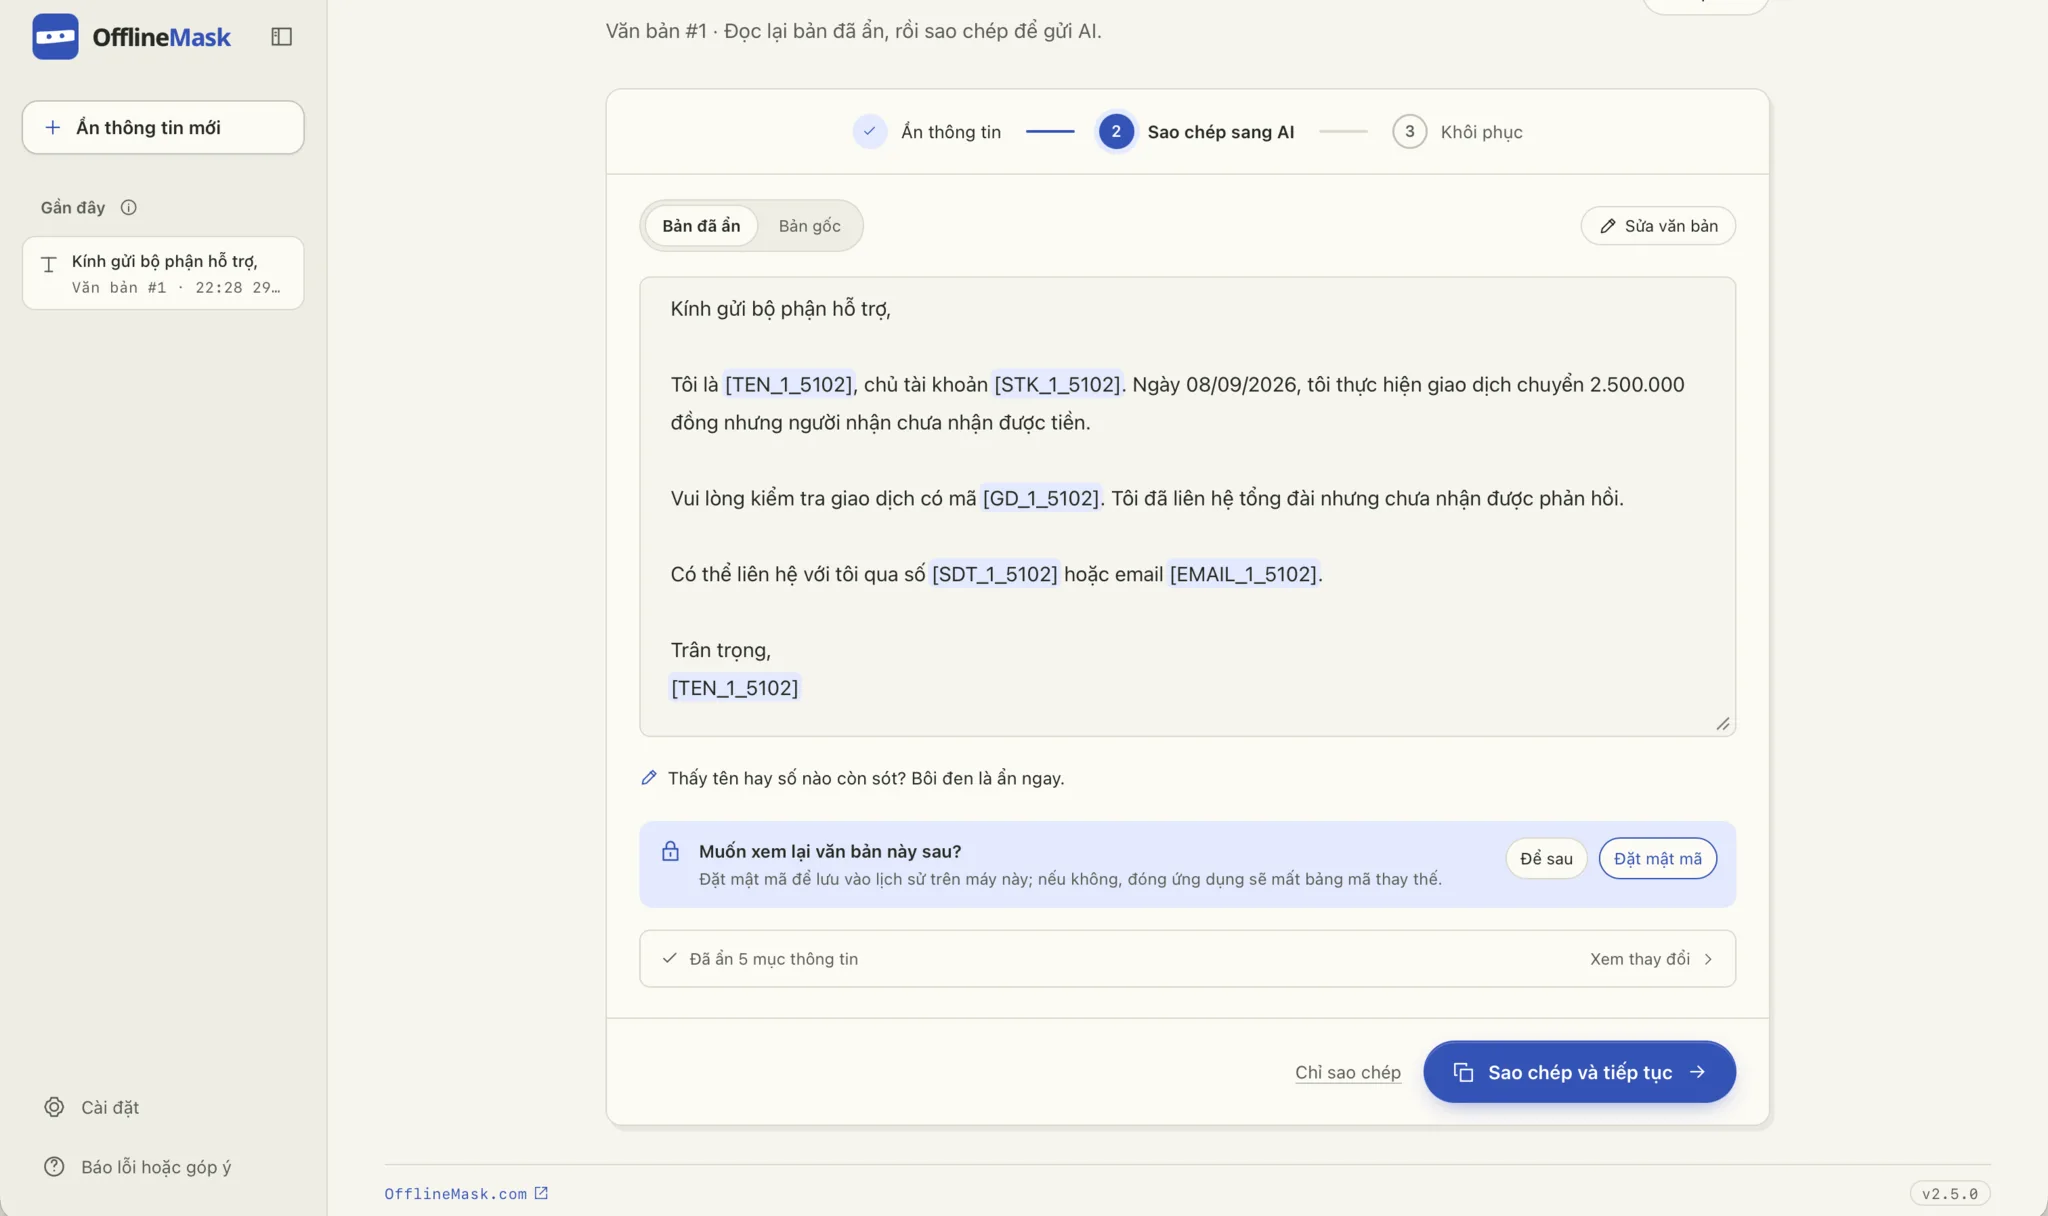
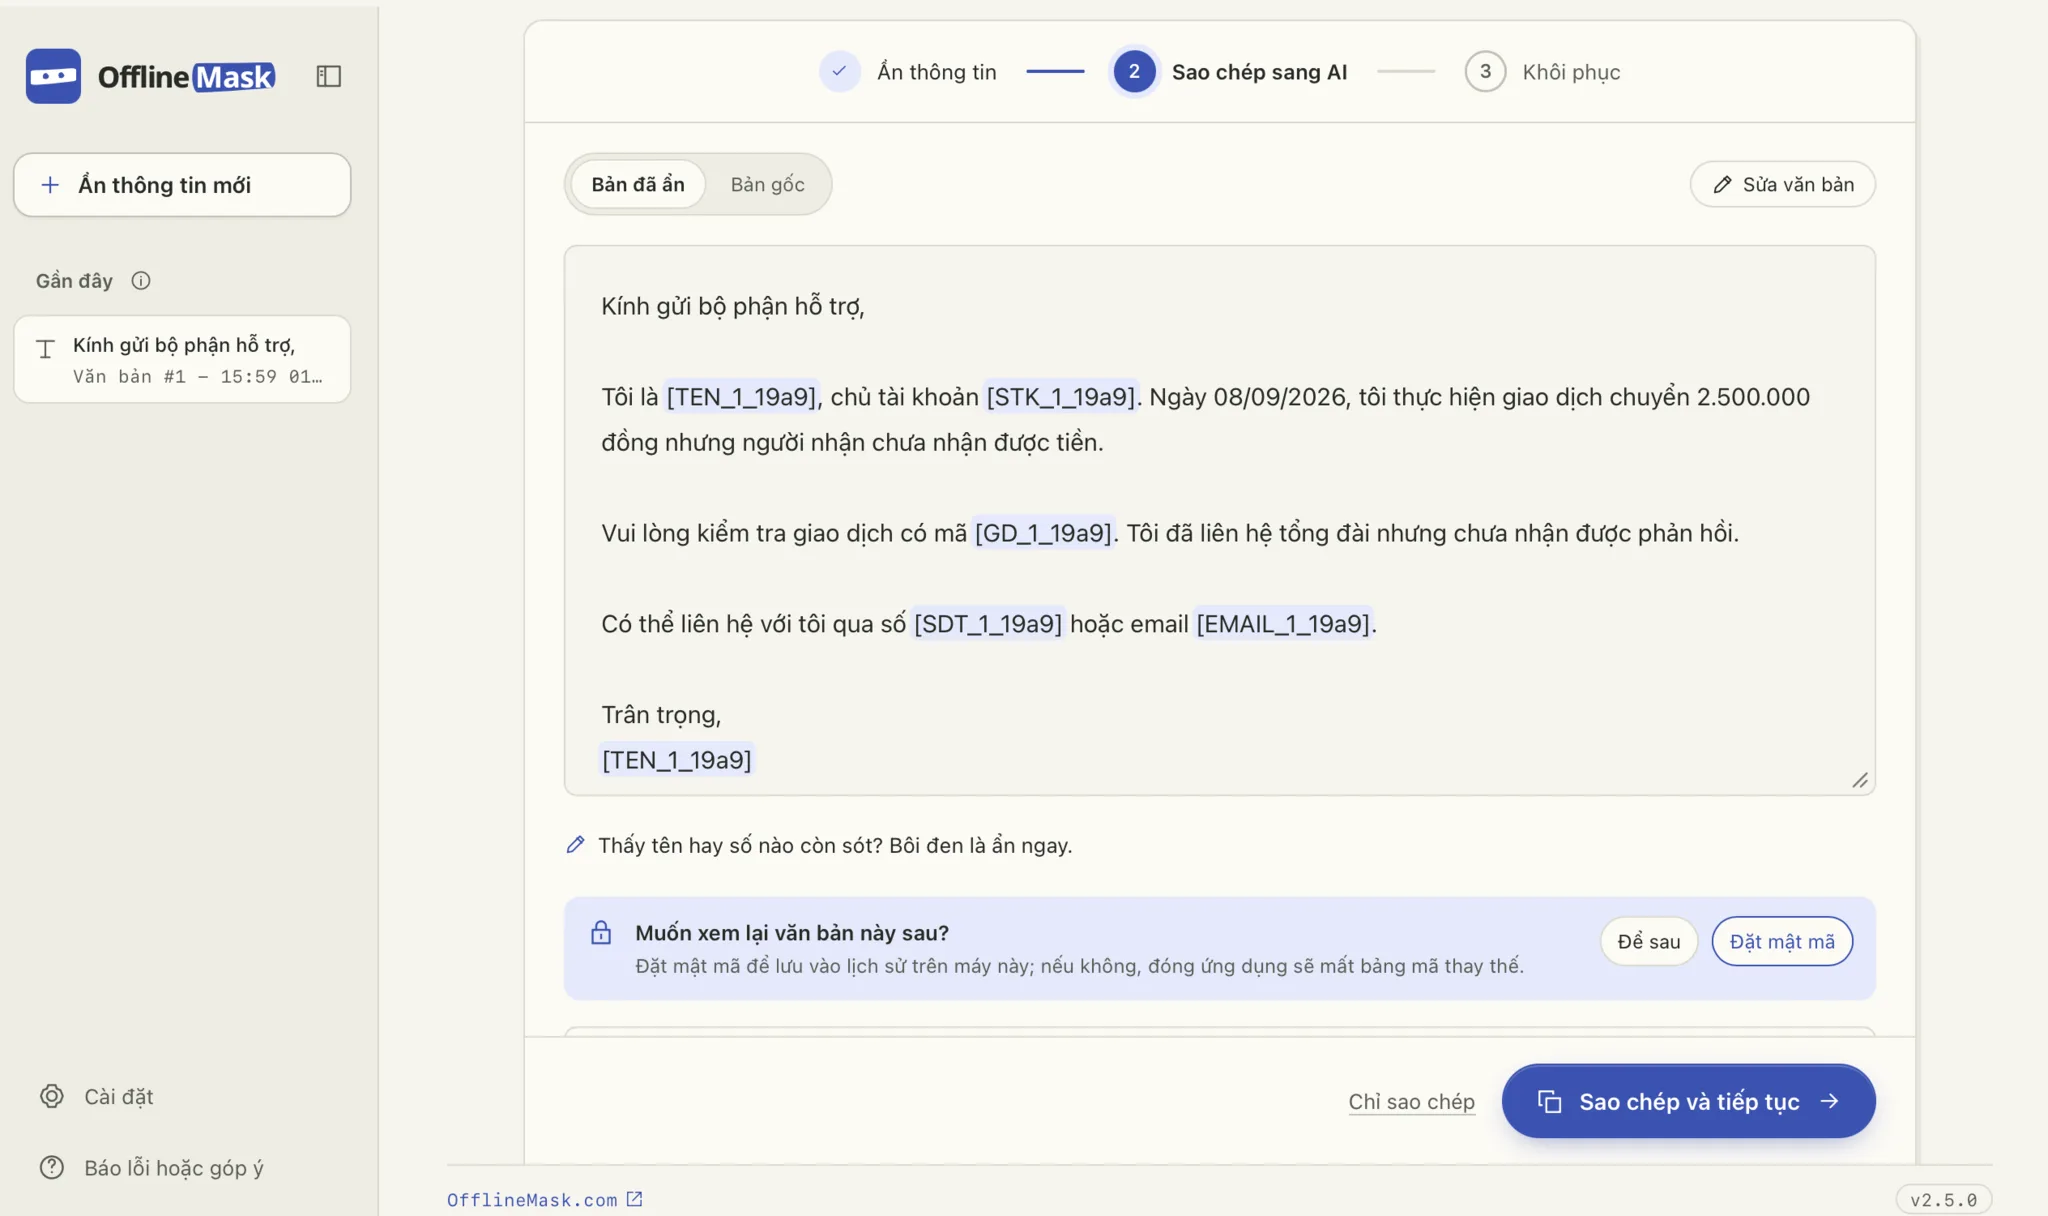
Website: the two app screenshots retaken from the desktop app with the Vietnamese pack so the sidebar shows the logotype, "Mask" under the cobalt brush swipe; the same fictional support letter and 1280×788 window, the name masked as [TEN_1_…], the step card at the top of the frame with the app's sti

diff --git a/docs/decisions/0193-logotype-swipe.md b/docs/decisions/0193-logotype-swipe.md
@@ -19,7 +19,7 @@ The owner liked A and C and chose **A**. The first draft of A was hard to read: 
 - **Drawn as a mask behind live text.** Everywhere the logotype appears, "Mask" is an inline block (0.1 em after "Offline", 0.12 em padding, line height 1, −0.02 em tracking) whose `::before` is the swipe: `mask: url(wordmark-swipe.svg) 0 0 / 100% 100%`, 1.1 em tall, filled with the accent. The word stays text, so it is selectable, read aloud as "OfflineMask" and follows the theme. The box is set in em for Noto Sans's metrics, which is why the face is bundled rather than taken from the system.
 - **Colours.** On paper: cobalt swipe, letters in `--on-accent`. On dark: the dark accent and dark `--on-accent`. On cobalt (the website hero, share images, blog cards): the light cobalt `#b3c3ff` swipe with cobalt letters, replacing "Mask in light cobalt".
 - **Where.** The app's `.brand-accent` (sidebar, folded top bar, Cài đặt, the about lockup); the website's `.om-brand` lockups (every page header) and the hero, where the swipe is brushed on after the letters rise (none with reduced motion); `landing/cards.js`, the blog share cards drawn by Satori, which places the swipe as an image; `landing/og/card.html` and `brand/social/cover.html`, with `og.png` and `cover.png` re-rendered (the cover's wordmark is now 112 px so it stays clear of the screenshot).
-- **Not changed.** The product name inside a sentence (`.om-name` on the website) stays plain lettering with "Mask" in cobalt: a swipe in running text would shout. The mark, app icon and favicon are unchanged. The screenshots on the website and in the share images still show the old sidebar until they are next retaken. The brand preview sheet's wordmark is live SVG text, which cannot be fitted to a swipe without measuring it, so it is left as is.
+- **Not changed.** The product name inside a sentence (`.om-name` on the website) stays plain lettering with "Mask" in cobalt: a swipe in running text would shout. The mark, app icon and favicon are unchanged. The screenshots on the website and in the share images were retaken the same day from the desktop app with the Vietnamese pack (the same fictional support letter, window 1280×788, the procedure at the top of `landing/scripts/capture-app-shots.mjs`), so `landing/shots/`, `og.png` and `cover.png` now show the swipe in the sidebar; the step card now sits at the top of the frame with the app's sticky footer, since the text panel has grown since the previous pair. The brand preview sheet's wordmark is live SVG text, which cannot be fitted to a swipe without measuring it, so it is left as is.
 
 ## Checked
 
